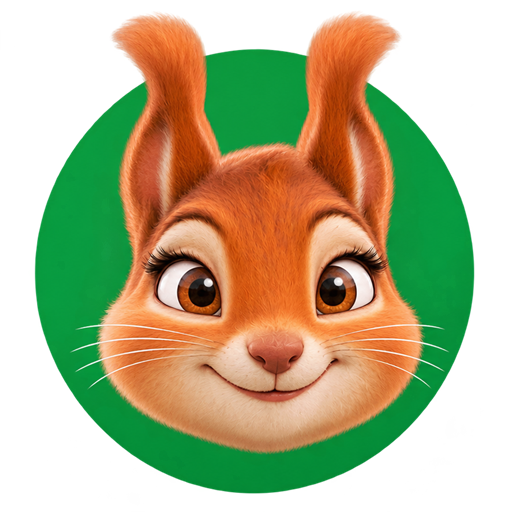
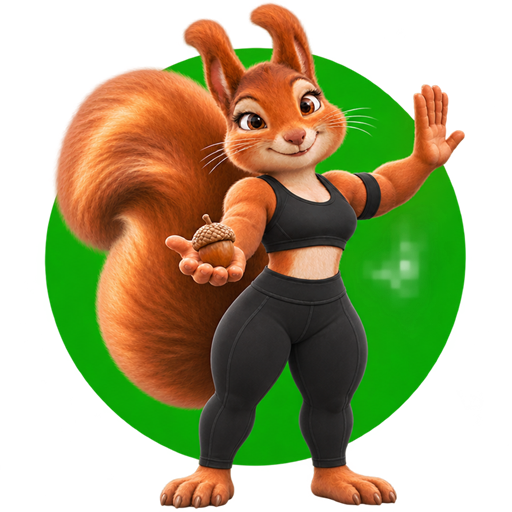
OK

diff --git a/preview.html b/preview.html
@@ -26,9 +26,9 @@
       </div>
     </section>
     <section class="collection" aria-label="Brand assets">
-      <article class="asset"><div class="asset-art"><img src="icons/on-512.png" alt="Happy squirrel on green"></div><div><p class="eyebrow">01 / PROTECTION ON</p><h2>Happy to help.</h2><p>Bright eyes. Green light. You're in control.</p><div class="sizes"><img src="icons/on-16.png" width="16" height="16" alt="16 pixel ON icon"><img src="icons/on-32.png" width="32" height="32" alt="32 pixel ON icon"><img src="icons/on-48.png" width="48" height="48" alt="48 pixel ON icon"><span>Actual toolbar sizes</span></div></div></article>
-      <article class="asset"><div class="asset-art"><img src="icons/off-512.png" alt="Sad squirrel on grey"></div><div><p class="eyebrow">02 / PROTECTION OFF</p><h2>Missing her shift.</h2><p>A softer face when protection is resting.</p><div class="sizes"><img src="icons/off-16.png" width="16" height="16" alt="16 pixel OFF icon"><img src="icons/off-32.png" width="32" height="32" alt="32 pixel OFF icon"><img src="icons/off-48.png" width="48" height="48" alt="48 pixel OFF icon"><span>Actual toolbar sizes</span></div></div></article>
-      <article class="asset logo"><div class="asset-art"><img src="assets/brand/nuts-logo-640.png" alt="Full NUTS squirrel logo in black sportswear"></div><div><p class="eyebrow">03 / THE BOUNCER</p><h2>Soft welcome.<br>Strong boundaries.</h2><p>Your approved character, preserved as the general logo.</p><a href="assets/brand/nuts-logo-640.png" download>Download transparent logo ↗</a></div></article>
+      <article class="asset"><div class="asset-art"><img src="icons/on-512.png" alt="Standing squirrel with raised stop hand on green"></div><div><p class="eyebrow">01 / STANDING GUARD</p><h2>Happy to help.</h2><p>Standing guard. Green light. No text badge.</p><div class="sizes"><img src="icons/on-16.png" width="16" height="16" alt="16 pixel guarding icon"><img src="icons/on-32.png" width="32" height="32" alt="32 pixel guarding icon"><img src="icons/on-48.png" width="48" height="48" alt="48 pixel guarding icon"><span>Actual toolbar sizes</span></div></div></article>
+      <article class="asset"><div class="asset-art"><img src="icons/off-512.png" alt="Standing squirrel with lowered arm on grey"></div><div><p class="eyebrow">02 / TAKING A BREAK</p><h2>Missing her shift.</h2><p>Arms relaxed. Grey backdrop. Protection is resting.</p><div class="sizes"><img src="icons/off-16.png" width="16" height="16" alt="16 pixel resting icon"><img src="icons/off-32.png" width="32" height="32" alt="32 pixel resting icon"><img src="icons/off-48.png" width="48" height="48" alt="48 pixel resting icon"><span>Actual toolbar sizes</span></div></div></article>
+      <article class="asset logo"><div class="asset-art"><img src="assets/brand/nuts-standing-on.png" alt="Full NUTS squirrel logo in black sportswear"></div><div><p class="eyebrow">03 / THE BOUNCER</p><h2>Soft welcome.<br>Strong boundaries.</h2><p>Your standing guardian, with two distinct modes and no text overlays.</p><a href="assets/brand/nuts-standing-on.png" download>Download transparent logo ↗</a></div></article>
     </section>
     <footer><span>NUTS / ONE SWITCH. NO UNWANTED DETOURS.</span><span>Everything in this preview works offline.</span></footer>
   </main>

diff --git a/background.js b/background.js
@@ -7,9 +7,6 @@
 
 importScripts('site.js');
 
-const COLOR_ON = '#16a34a';
-const COLOR_OFF = '#6b7280';
-
 // ---------------------------------------------------------------- state
 
 async function isEnabled() {
@@ -32,7 +29,7 @@ function countBlocked() {
 // ------------------------------------------------------- toolbar button
 
 // Storage changes can ask for several redraws at once. Running them side by
-// side let an older one finish last and leave the badge showing the wrong
+// side let an older one finish last and leave the icon showing the wrong
 // state, so draws run one at a time and the last one reads the final state.
 let drawing = null;
 let redrawWanted = false;
@@ -56,20 +53,17 @@ async function draw() {
   const enabled = await isEnabled();
   const { blocked } = await chrome.storage.session.get({ blocked: 0 });
 
-  let text = 'OFF';
-  if (enabled) text = blocked === 0 ? 'ON' : blocked > 999 ? '999+' : String(blocked);
-
   const icon = enabled ? 'on' : 'off';
   await chrome.action.setIcon({
     path: { 16: `icons/${icon}-16.png`, 32: `icons/${icon}-32.png` },
   });
-  await chrome.action.setBadgeText({ text });
-  await chrome.action.setBadgeTextColor({ color: '#ffffff' });
-  await chrome.action.setBadgeBackgroundColor({ color: enabled ? COLOR_ON : COLOR_OFF });
+  // The standing mascot is the state indicator. Clear old text/count badges
+  // too, so upgrading never leaves lettering over the artwork.
+  await chrome.action.setBadgeText({ text: '' });
   await chrome.action.setTitle({
     title: enabled
-      ? `NUTS is ON (${blocked} blocked). Click to turn off.`
-      : 'NUTS is OFF. Click to turn on.',
+      ? `NUTS (${blocked} blocked)`
+      : 'NUTS',
   });
 }
 

diff --git a/animation.js b/animation.js
@@ -84,7 +84,7 @@
     root.append(status);
     const scene = document.createElement('div');
     scene.className = reduced ? 'quiet' : 'scene';
-    if (reduced) scene.textContent = '✓ NUTS protection is on';
+    if (reduced) scene.textContent = '✓ NUTS is protecting your tabs';
     else {
       scene.dataset.phase = 'approach';
       const character = document.createElement('div');
@@ -106,7 +106,7 @@
     document.addEventListener('keydown', escape);
     current = { host, timers: [], escape };
     const later = (fn, delay) => current.timers.push(setTimeout(fn, delay));
-    later(() => { status.textContent = 'NUTS protection is on'; }, 30);
+    later(() => { status.textContent = 'NUTS is protecting your tabs'; }, 30);
     if (!reduced) {
       for (const [phase, delay] of [['block', 620], ['offer', 1120], ['hearts', 1700]]) {
         later(() => { host.dataset.phase = scene.dataset.phase = phase; }, delay);

diff --git a/preview.js b/preview.js
@@ -5,6 +5,6 @@ document.getElementById('replay').addEventListener('click', async () => {
   const reduced = document.getElementById('reduced').checked || matchMedia('(prefers-reduced-motion: reduce)').matches;
   const ok = await NutsAnimation.play({ mount: document.getElementById('stage'), reducedMotion: reduced });
   poster.hidden = Boolean(ok);
-  document.getElementById('feedback').textContent = ok ? (reduced ? 'Protection on. Motion kept quiet.' : 'She’s got your back.') : 'Could not load artwork. Keep the assets folder beside this preview.';
+  document.getElementById('feedback').textContent = ok ? (reduced ? 'Your tabs are protected. Motion kept quiet.' : 'She’s got your back.') : 'Could not load artwork. Keep the assets folder beside this preview.';
   reset = setTimeout(() => { poster.hidden = false; }, reduced ? 1250 : NutsAnimation.duration + 50);
 });

diff --git a/README.md b/README.md
@@ -19,12 +19,12 @@ NUTS comes with a squirrel bouncer: soft welcome, strong boundaries.
 
 | Where | What you see |
 |---|---|
-| Toolbar, switch on | <img src="icons/on-32.png" width="24" alt=""> Happy squirrel on green |
-| Toolbar, switch off | <img src="icons/off-32.png" width="24" alt=""> Sad squirrel on grey |
-| Extensions page and menus | <img src="icons/logo-48.png" width="24" alt=""> The happy face |
+| Toolbar, switch on | <img src="icons/on-32.png" width="24" alt=""> Standing squirrel on green, stop hand raised |
+| Toolbar, switch off | <img src="icons/off-32.png" width="24" alt=""> Standing squirrel on grey, arm lowered and sad expression |
+| Extensions page and menus | <img src="icons/logo-48.png" width="24" alt=""> The active standing mascot |
 | Turning it on | A 2.6-second animation in the corner of the page |
 
-When you switch NUTS on from the toolbar, the squirrel walks in, pushes an ad window away, offers you an acorn and briefly gets heart eyes. It is silent, lets clicks through to the page, and closes itself; Escape or its × button closes it early, and switching off cancels it. If your system asks for reduced motion, you get a short "NUTS protection is on" note instead. It never plays on page loads or for each blocked ad.
+When you switch NUTS on from the toolbar, the squirrel walks in, pushes an ad window away, offers you an acorn and briefly gets heart eyes. It is silent, lets clicks through to the page, and closes itself; Escape or its × button closes it early, and switching off cancels it. If your system asks for reduced motion, you get a short "NUTS is protecting your tabs" note instead. It never plays on page loads or for each blocked ad.
 
 Chrome's own pages (like `chrome://` pages and the Web Store) can't show the animation, but the switch still works there.
 
@@ -45,11 +45,12 @@ It should also work in Edge, Brave and other Chromium browsers (at `edge://exten
 
 Click the toolbar icon to switch it on or off.
 
-| Icon | Badge | Meaning |
-|---|---|---|
-| Happy, green | `ON` | On. Nothing blocked yet since you switched it on. |
-| Happy, green | a number | On. That many tabs and redirects were blocked. |
-| Sad, grey | `OFF` | Off. Pages behave normally. |
+| Icon | Meaning |
+|---|---|
+| Standing, raised stop hand, green | Protection is active. |
+| Standing, relaxed arm, sad, grey | Protection is inactive. Pages behave normally. |
+
+The logo changes to show the mode; there is no ON/OFF text or number badge over it. Hover over the toolbar icon to read the blocked count while protection is active. Full-size standing logos are included in `assets/brand/nuts-standing-on.png` and `nuts-standing-off.png`.
 
 The switch stays as you left it after Chrome restarts.
 
@@ -92,10 +93,10 @@ The switch stays as you left it after Chrome restarts.
 | File | Role |
 |---|---|
 | `manifest.json` | Manifest V3. Permissions: `storage`, `webNavigation`, and access to all sites so the guard can run in pages. |
-| `background.js` | The switch and badge. Closes tabs that pages open (`webNavigation.onCreatedNavigationTarget`). Sends the tab back when a redirect slips past the page guard. |
+| `background.js` | The switch, mascot icon and hover tooltip. Closes tabs that pages open (`webNavigation.onCreatedNavigationTarget`). Sends the tab back when a redirect slips past the page guard. |
 | `content.js` | Runs at the start of every page. In the top frame, it cancels page-started navigations to another site through the [Navigation API](https://developer.mozilla.org/docs/Web/API/Navigation_API)'s `navigate` event. In every frame, it tells the background which real links you click, so your own clicks are never blocked. |
 | `site.js` | Decides whether two addresses are the same site (so `www.example.com` and `player.example.com` count as one). |
-| `icons/` | Toolbar faces (`on-*`, `off-*`) and the app icon (`logo-*`). |
+| `icons/` | Standing toolbar logos (`on-*`, `off-*`) and the app icon (`logo-*`). |
 | `animation.js`, `activation.js` | The switch-on animation, and the receiver that plays it in the tab where you clicked the toolbar. |
 | `assets/` | The full-body logo and social preview (`brand/`), animation poses (`animation/`) and the generated source sheets (`source/`). See [`assets/brand/ARTWORK.md`](assets/brand/ARTWORK.md). |
 | `tools/` | `make-icons.mjs` re-exports every icon and pose from the source sheets (Windows), `make-social-preview.mjs` renders the social preview, `package.ps1` builds a release zip. |

diff --git a/assets/brand/ARTWORK.md b/assets/brand/ARTWORK.md
@@ -8,10 +8,10 @@
 | `nuts-logo-640.png` | README hero, social preview, `preview.html` | Same image, small enough for web pages and the release zip. |
 | `nuts-logo-square.png` | Avatars and other square crops | The master with transparent padding. |
 | `social-preview.png` (1280×640) | GitHub repository social preview, link shares | Logo plus name and pitch; rendered by `tools/make-social-preview.mjs`. |
-| `icons/on-16.png`, `on-32.png` | Toolbar while the switch is on | Happy face cropped to the green disc, so it stays readable at 16 px. |
-| `icons/off-16.png`, `off-32.png` | Toolbar while the switch is off | Sad face cropped to the grey disc. |
-| `icons/logo-16.png` to `logo-128.png` | App icon: extensions page, menus, Web Store | Happy face. The full-body logo is unreadable below 128 px. The 128 px file has the Web Store's 16 px padding. |
-| `icons/on-*`, `off-*` at 48, 128, 512 px | Preview page, future store art | Faces with ears, uncropped. |
+| `icons/on-16.png`, `on-32.png` | Toolbar while the switch is on | Standing mascot with raised stop hand on green; no text badge. |
+| `icons/off-16.png`, `off-32.png` | Toolbar while the switch is off | Standing mascot with relaxed arm and sad expression on grey; no text badge. |
+| `icons/logo-16.png` to `logo-128.png` | App icon: extensions page, menus, Web Store | Active standing mascot. At tiny sizes the green backdrop and raised arm indicate state; facial detail is clearer at larger sizes. The 128 px file has padding. |
+| `icons/on-*`, `off-*` at 48, 128, 512 px | Preview page, future store art | Complete standing mascots, uncropped. |
 | `assets/animation/*.png` (4 poses, 512 px) | Switch-on animation | Played by `animation.js` with a separate moving ad panel. |
 
 The animation is a lightweight sprite sequence with CSS motion, not a rigged 3D model or a rendered video. Open `preview.html` to play it offline.
@@ -26,3 +26,5 @@ Source sheets are in `assets/source/`. `tools/export-brand.ps1` crops cells and 
 Chrome API references used for integration:
 - https://developer.chrome.com/docs/extensions/reference/api/tabs#method-sendMessage
 - https://developer.chrome.com/docs/extensions/reference/manifest/web-accessible-resources
+
+Standing update (1.2.0): generated with the built-in image tool from the approved mascot. Prompt: matched full-body standing poses in black sportswear; active happy with raised stop hand and green backdrop; inactive sad with lowered arm and grey backdrop; no lettering. Source: assets/source/standing-sheet.png. Full-size exports: nuts-standing-on.png and nuts-standing-off.png.
